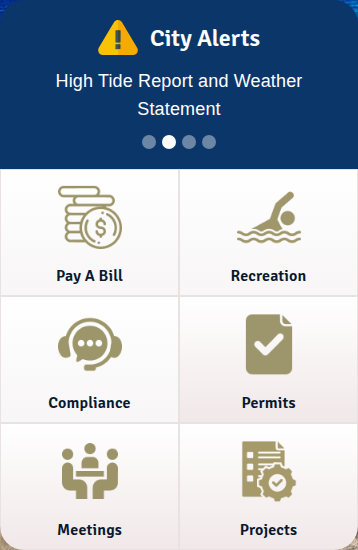
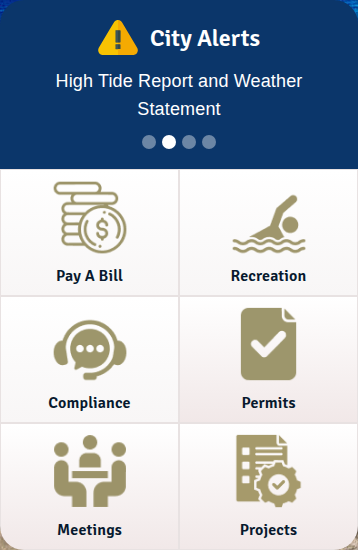
spacing edits

diff --git a/src/components/QuickLinks.tsx b/src/components/QuickLinks.tsx
@@ -1,10 +1,10 @@
 import { IconAlert } from './icons';
-import iconPayABill from '../assets/icons/pay-a-bill.png';
-import iconRecreation from '../assets/icons/recreation.png';
-import iconCompliance from '../assets/icons/compliance.png';
-import iconPermits from '../assets/icons/permits.png';
-import iconMeetings from '../assets/icons/meetings.png';
-import iconCurrentProjects from '../assets/icons/current-projects.png';
+import iconPayABill from '../assets/icons/pay-a-bill-tight.png';
+import iconRecreation from '../assets/icons/recreation-tight.png';
+import iconCompliance from '../assets/icons/compliance-tight.png';
+import iconPermits from '../assets/icons/permits-tight.png';
+import iconMeetings from '../assets/icons/meetings-tight.png';
+import iconCurrentProjects from '../assets/icons/current-projects-tight.png';
 
 const LINKS = [
   { icon: iconPayABill, label: 'Pay A Bill', shortLabel: 'Pay A Bill' },
@@ -40,7 +40,12 @@ export default function QuickLinks() {
             className="group flex flex-col items-center justify-center gap-[6.5px] lg:gap-[13px] h-[127px] sm:h-[251px] px-4 sm:px-10 border border-[#e8e2e2] transition-colors hover:bg-[var(--surface-accent-subtle)]"
             style={{ backgroundImage: `linear-gradient(to bottom, #ffffff, ${i < 3 ? '#f8f6f6' : '#f1e8e8'})` }}
           >
-            <img src={icon} alt="" className="size-20 sm:size-[100px]" aria-hidden="true" />
+            <img
+              src={icon}
+              alt=""
+              aria-hidden="true"
+              className="size-20 sm:size-[100px] object-contain object-bottom"
+            />
             <p className="heading-h6 sm:heading-h5 text-[var(--text-primary)] text-center">
               <span className="sm:hidden">{shortLabel}</span>
               <span className="hidden sm:inline">{label}</span>
